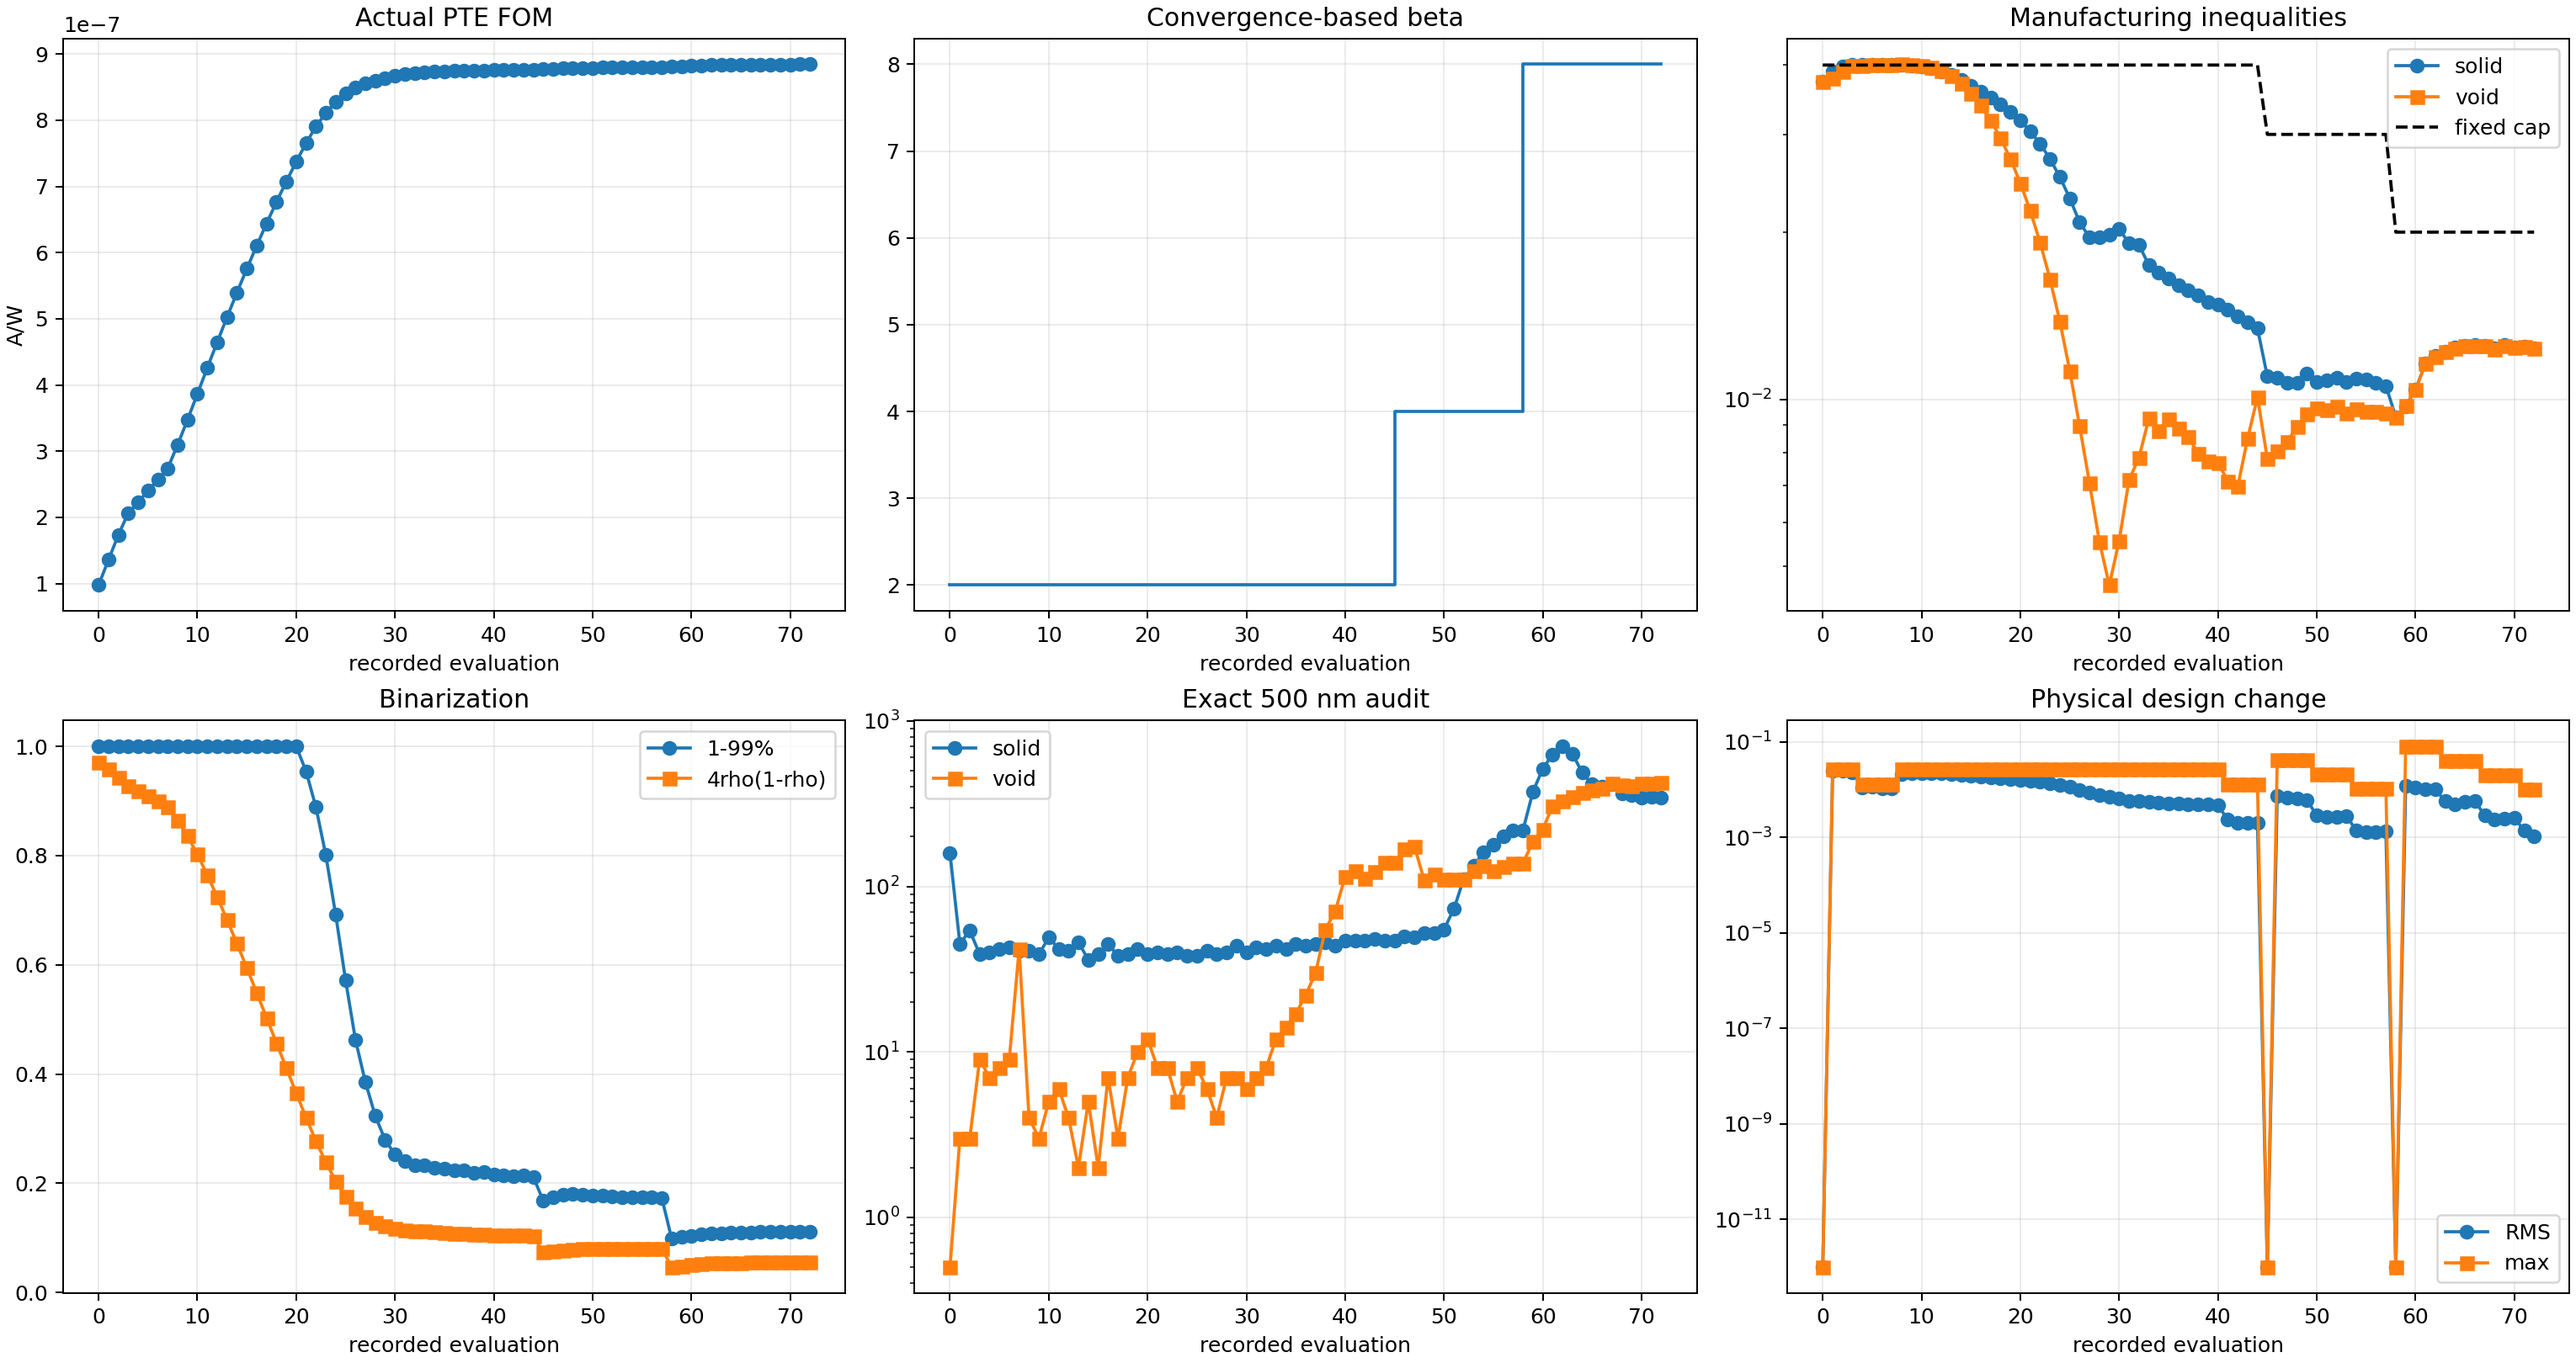
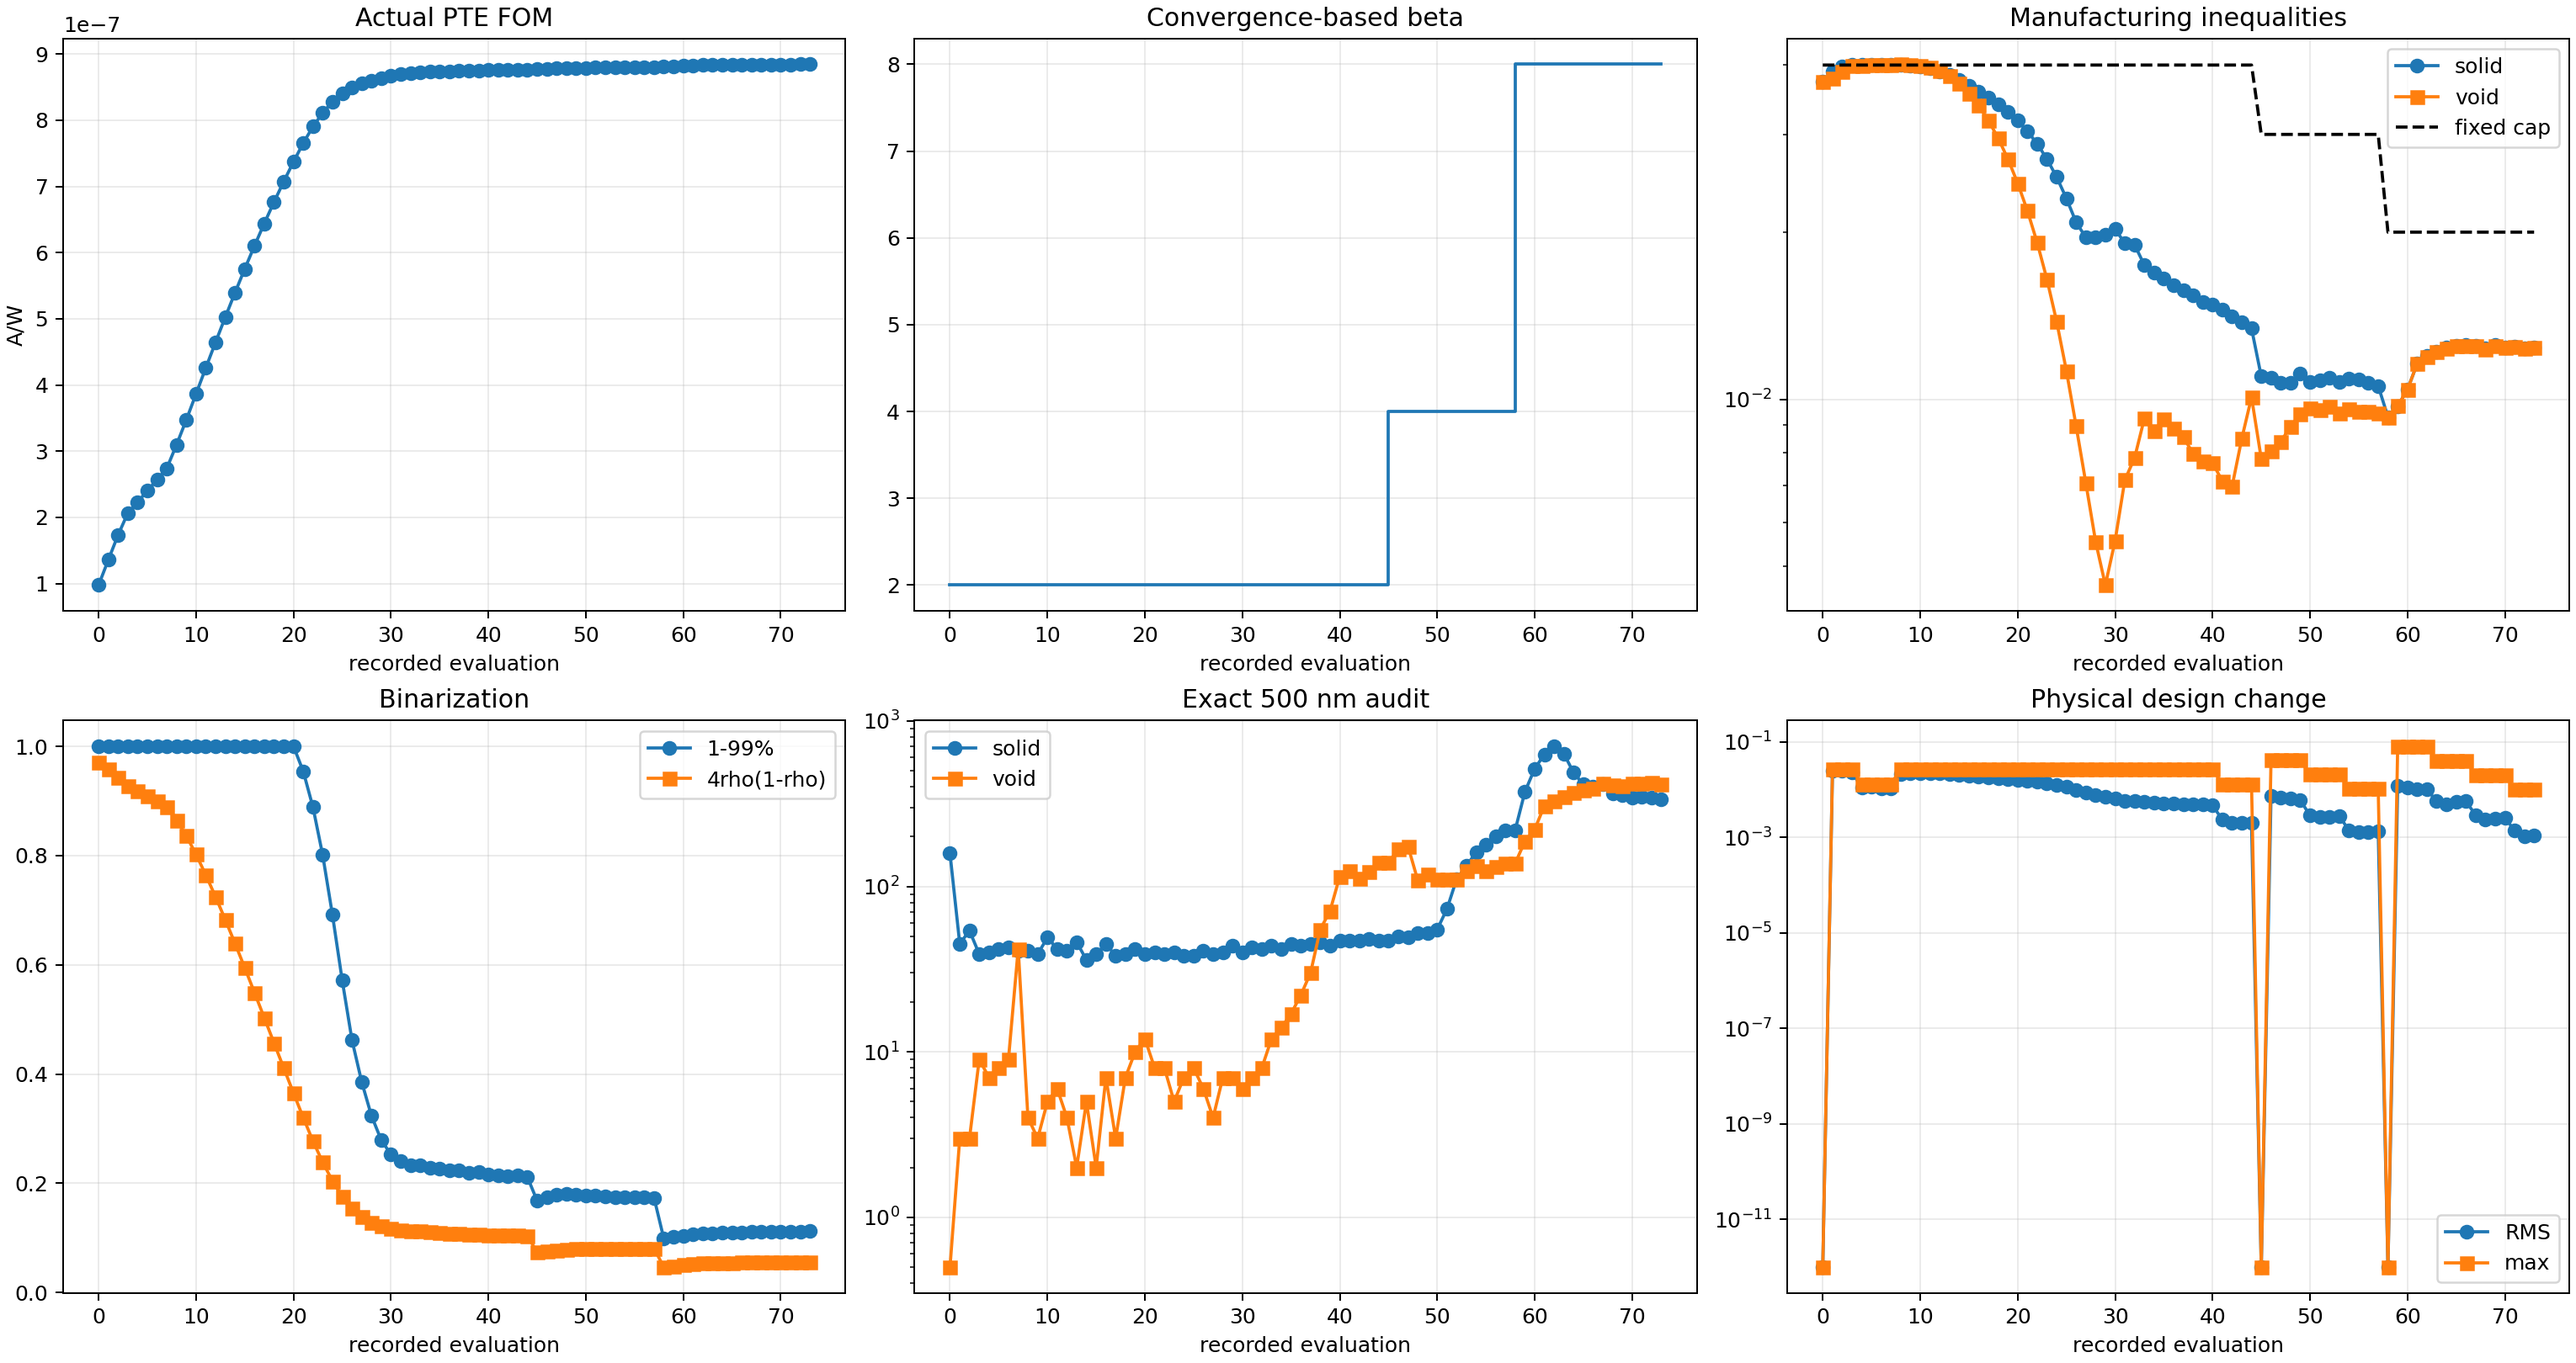
Record Run 003 run003_b008_s015_g071_accepted_mma

diff --git a/photothermal_pte/optimization_runs/run_003_gaussian10_w8p5_current_max_converged/results/OPTIMIZATION_REPORT.md b/photothermal_pte/optimization_runs/run_003_gaussian10_w8p5_current_max_converged/results/OPTIMIZATION_REPORT.md
@@ -2,10 +2,10 @@
 
 Status: `RUNNING_CONVERGENCE_BASED_CONSTRAINED_BETA_CONTINUATION`
 
-Current stage: beta=8, accepted stage iteration=14, global iteration=70.
+Current stage: beta=8, accepted stage iteration=15, global iteration=71.
 
-Actual FOM: `8.843610900867e-07 A/W`. Fixed-cap solid/void constraints: `1.236632e-02` / `1.235323e-02` with cap `2.000000e-02`.
+Actual FOM: `8.844041450585e-07 A/W`. Fixed-cap solid/void constraints: `1.238661e-02` / `1.237428e-02` with cap `2.000000e-02`.
 
-Exact 500 nm bad cells: solid `345`, void `423`. Stage convergence: `False` (recent FOM/density changes have not plateaued).
+Exact 500 nm bad cells: solid `336`, void `413`. Stage convergence: `False` (recent FOM/density changes have not plateaued).
 
 Beta is promoted only after fixed-inequality feasibility and a four-update FOM/design plateau; it is never promoted after one nominal update.
